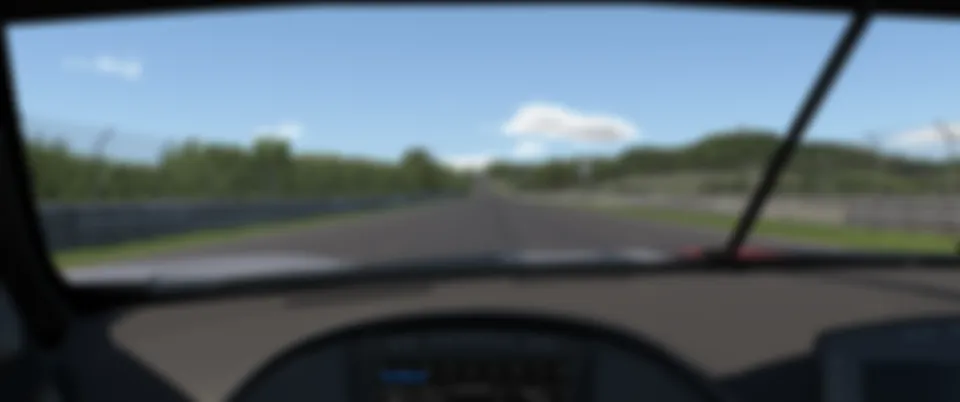
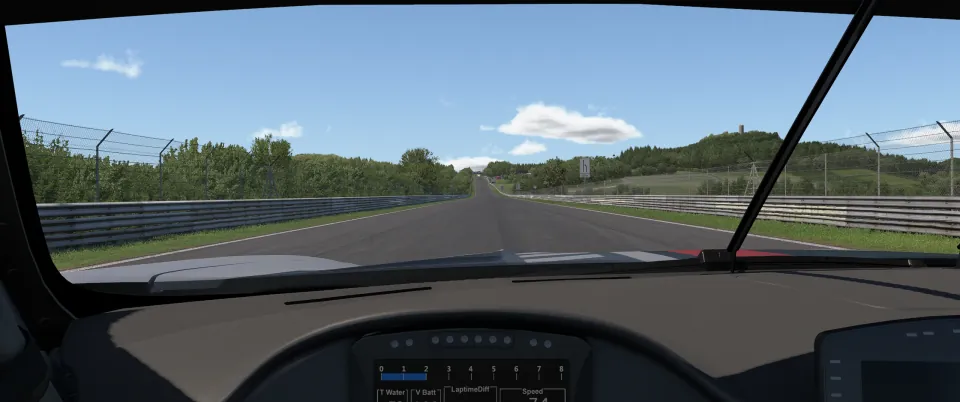
refactor(site): the gallery cockpit is blurred in CSS, not in the file

diff --git a/site/src/styles/widget-gallery.css b/site/src/styles/widget-gallery.css
@@ -18,19 +18,33 @@
 
 /* The cockpit runs edge to edge under the whole gallery - stage, groups and
    strip - darkened on the left where the words are and at the foot where
-   the strip is, and left clear where the widget stands. */
+   the strip is, and left clear where the widget stands. The cockpit is
+   blurred on a layer of its own (::after) so the widget stays the one sharp
+   thing; the layer overhangs the box by twice the blur so its soft edge
+   falls outside, where the box clips it. */
 .wg {
   --wg-panel: min(27rem, 34%);
+  --wg-blur: 10px;
 
   position: relative;
   isolation: isolate;
+  overflow: clip;
   padding: clamp(1rem, 2.5vw, 2rem) 0 clamp(1.5rem, 3vw, 2.5rem);
-  background: #0b0e12 url('../../assets/img/why/cockpit-bg-1920.webp') center
-    38% / cover no-repeat;
+  background-color: #0b0e12;
+}
+
+.wg::after {
+  content: '';
+  position: absolute;
+  inset: calc(var(--wg-blur) * -2);
+  z-index: -2;
+  background: url('../../assets/img/why/cockpit-bg-1920.webp') center 38% /
+    cover no-repeat;
+  filter: blur(var(--wg-blur));
 }
 
 @media (min-width: 1700px) {
-  .wg {
+  .wg::after {
     background-image: url('../../assets/img/why/cockpit-bg-2560.webp');
   }
 }
